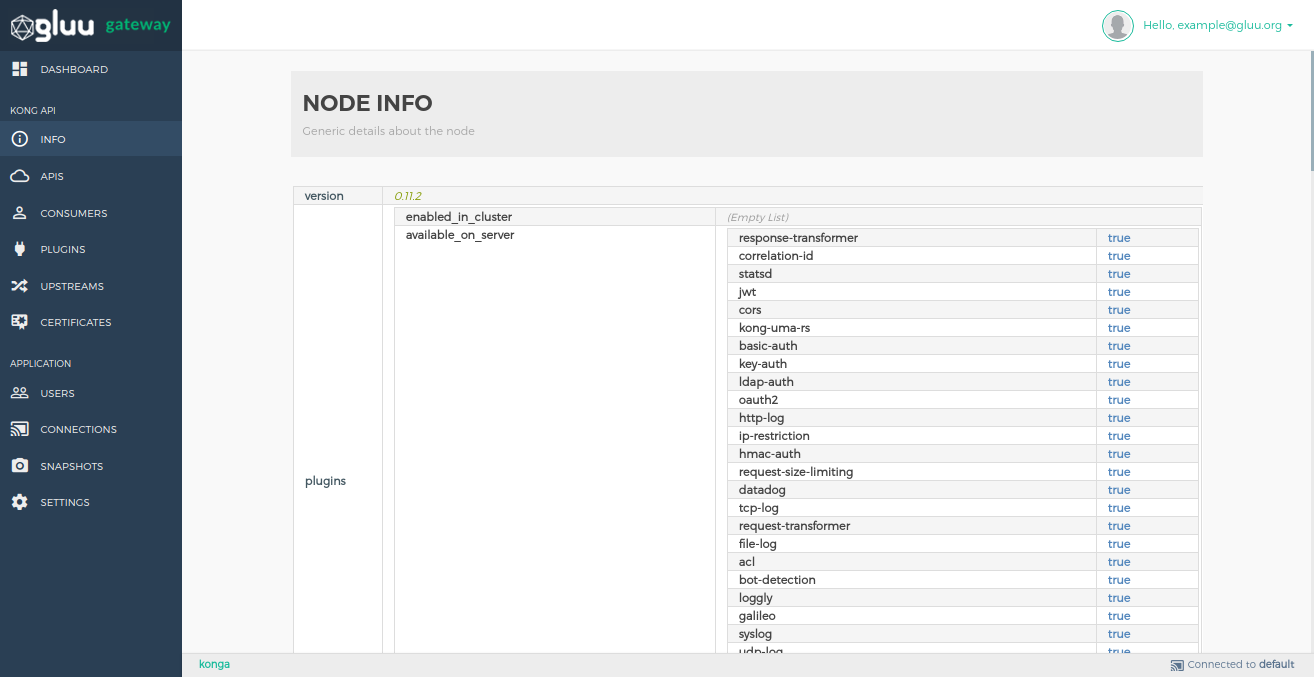
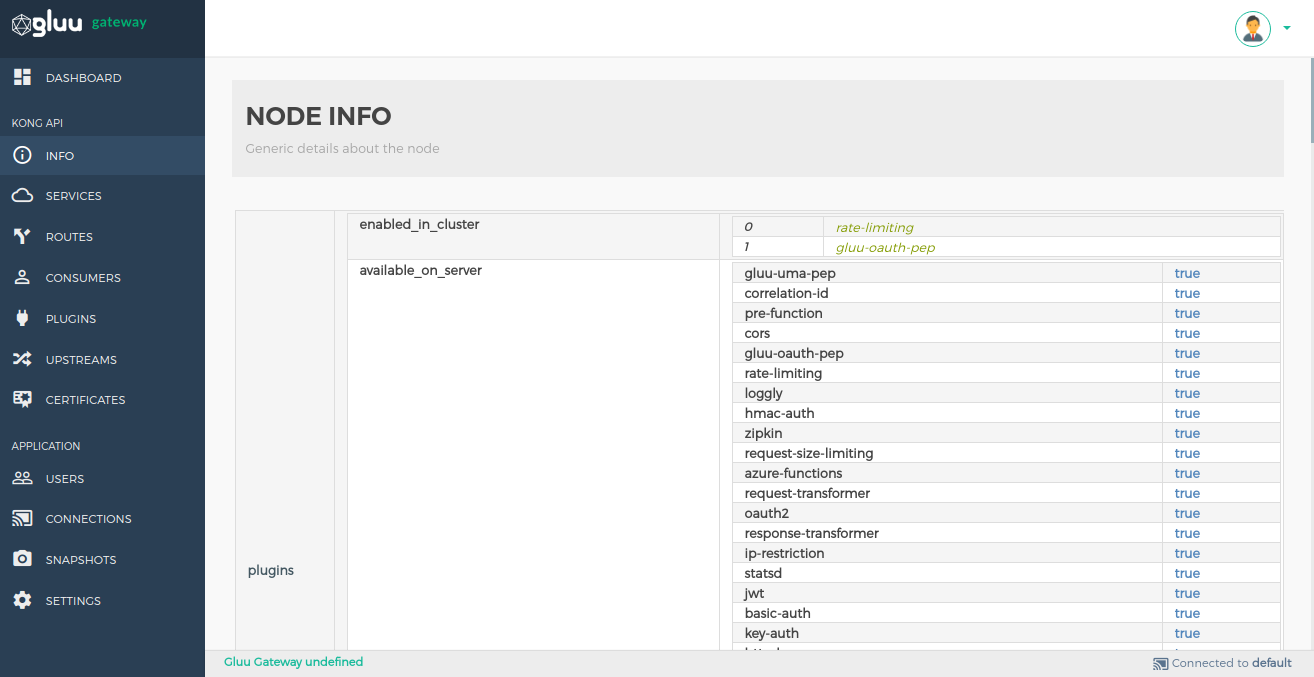
Update admin GUI section with service object configuration

diff --git a/4.0.beta/source/admin-gui.md b/4.0.beta/source/admin-gui.md
@@ -20,56 +20,72 @@ The remaining subsections of Requests, Connections and Timers show real-time met
 The Info section shows generic details about the Kong node.
 ![info](img/2_info.png)
 
-## APIs
+## SERVICEs
 
-The API object describes an API that's being exposed by Kong. Kong needs to know how to retrieve the API when a consumer is calling it from the Proxy port. Each API object must specify some combination of `hosts`, `uris`, and `methods`. Kong will proxy all requests to the API to the specified upstream URL. 
+### Service List
 
-!!! Note
-    The `SECURITY` option is for the [gluu-oauth2-rs plugin](plugin/gui/#gluu-oauth-20-uma-rs-plugin) configuration. Saving any configuration of paths, HTTP methods and scopes in the UMA Resources means adding the gluu-oauth2-rs plugin to the given API, which is necessary for successful execution of [UMA and Mix flows](/#uma-mode).
+Service entities, as the name implies, are abstractions of each of your own upstream services. Examples of Services would be a data transformation microservice, a billing API, etc. [More details](https://docs.konghq.com).   
     
-![apis](img/3_apis.png)
+![3_service_list](img/3_1_service_list.png)
 
-### Add an API
+| Tools | Details |
+|---|-----|
+| **+ ADD NEW SERVICE** | This button is used to add new service.|
+| **Gluu Security** | This column only shows the added gluu plugins.|
+| **Edit Button** | This button is used to edit service, configure route and configure plugins of selected service. You can click on **service name** to edit service.|
+| **Delete Button** | This button is used to delete selected service. |
+   
+### Add an Service
 
-Add your API by using the `+ ADD NEW API` button in the API section.
+Add your Service using the `+ ADD NEW SERVICE` button.
 
-![api_add](img/3_api_add.png)
+![3_2_add_service](img/3_2_add_service.png)
 
-Attributes of an API object are listed below.
-
-| **FORM PARAMETER** | **DESCRIPTION** |
-|-----------|-------------|
-| **name** | The API name. |
-| **hosts** *(semi-optional)* | A comma-separated list of domain names that point to your API. For example: `example.com`. At least one of `hosts`, `uris`, or `methods` should be specified. |
-| **uris** *(semi-optional)* | A comma-separated list of URI's prefixes that point to your API. For example: `/my-path`. At least one of `hosts`, `uris`, or `methods` should be specified. |
-| **methods** *(semi-optional)* | A comma-separated list of HTTP methods that point to your API. For example: `GET`,`POST`. At least one of `hosts`, `uris`, or `methods` should be specified. |
-| **upstream_url** | The base target URL that points to your API server. This URL will be used for proxying requests. For example: `https://example.com`. |
-| **strip_uri** *(optional)* | When matching an API via one of the uri's prefixes, strip that matching prefix from the upstream URI to be requested. Default: `true`. |
-| **preserve_host** *(optional)* | When matching an API via one of the `hosts` domain names, make sure the request `Host` header is forwarded to the upstream service. By default, this is `false`, and the upstream `Host` header will be extracted from the configured `upstream_url`. |
-| **retries** *(optional)* | The number of retries to execute upon failure to proxy. The default is `5`. |
-| **upstream_connect_timeout** *(optional)* | The timeout in milliseconds for establishing a connection to your upstream service. Defaults to `60000`. |
-| **upstream_send_timeout** *(optional)* | The timeout in milliseconds between two successive write operations for transmitting a request to your upstream service. Defaults to `60000`. |
-| **upstream_read_timeout** *(optional)* | The timeout in milliseconds between two successive read operations for transmitting a request to your upstream service. Defaults to `60000`. |
-| **https_only** *(optional)* | Enable if you wish to only serve an API through HTTPS, on the appropriate port (`443` by default). Default: `false`. |
-| **http_if_terminated** *(optional)* | Consider the `X-Forwarded-Proto` header when enforcing HTTPS-only traffic. Default: `false`. |
-
-### Manage APIS
+### Manage Service
 
 You can edit an API and manage its plugins by clicking on the pencil icon on the API list. There are two sections.
 
-**API Details:** This section is used to view and edit your API.
+#### Service Details
+This section is used to view and edit your Service.
 
-![api_details](img/3_3_api_details.png)
+![3_3_service_details](img/3_3_service_details.png)
 
-**Plugins:** This section is used to view the list of added Plugins and add a new Plugin. If you want to switch a plugin on/off, just use the toggle bar. Editing a plugin’s details is possible after clicking on its name on the list. You can also delete a plugin by clicking on the DELETE button.
+#### Routes
+This section is used to manage route within selected service.
 
-* The Plugin list
+![3_4_service_route](img/3_4_service_route.png)
+
+| Tools | Details |
+|---|-----|
+| **+ ADD ROUTE** | This button is used to add new route.|
+| **Edit Button** | This button is used to edit route, configure route and configure plugins of selected service.|
+| **Delete Button** | This button is used to delete selected route. |
+
+#### Plugins
+This section is used to view the list of added Plugins and add a new Plugin.
+
+##### Plugin list
   
-  ![api_plugin_list](img/3_2_api_plugin_list.png)
+  ![3_5_service_plugins](img/3_5_service_plugins.png)
 
-* Add a Plugin by clicking the plus icon next to a plugin’s name
+  | Tools | Details |
+  |---|-----|
+  | **+ ADD PLUGIN** | This button is used to add plugin.|
+  | **Edit Plugin** | Click on plugin name to edit plugin configurations.|
+  | **Delete Button** | This button is used to delete selected route. |
+  | **ON/OFF Switch** |If you want to switch a plugin on/off, just use the toggle bar.|
+
+##### Add Plugin
+
+  Add a Plugin by clicking the plus icon next to a plugin’s name.
   
-  ![add_plugin_api](img/3_1_add_plugin_api.png)
+  ![3_6_add_plugins](img/3_6_add_plugins.png)
+
+#### Eligible consumers
+
+  This section is for ACL kong plugin which Restrict access to an API by whitelisting or blacklisting consumers using arbitrary ACL group names. It shows the list of consumers which is configure with ACL Groups.
+
+  ![3_7_eligible_consumers](img/3_7_eligible_consumers.png)
 
 ## Consumers
 
